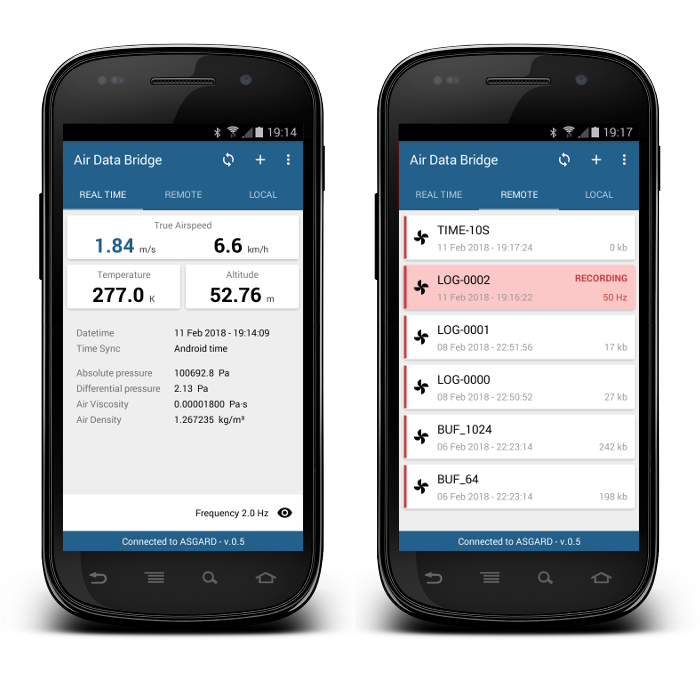
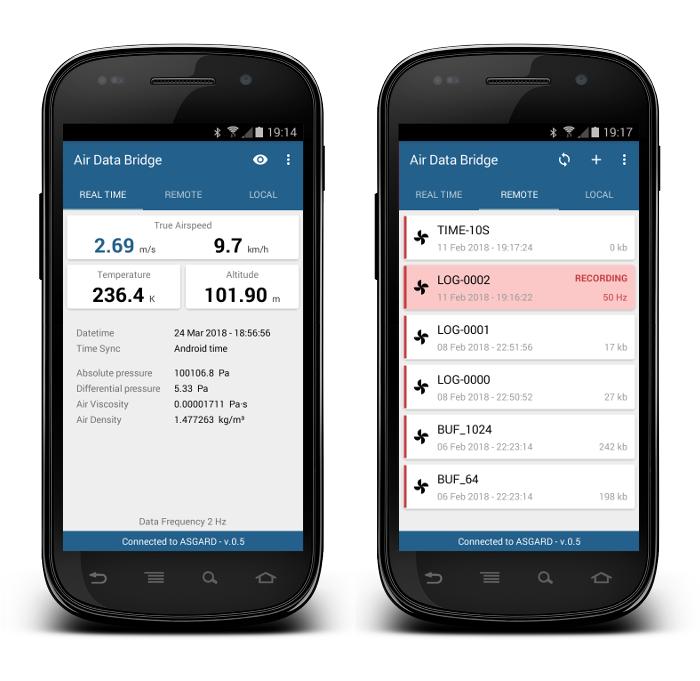
Move the Realtime Toggle command on the top Actionbar

diff --git a/app/src/main/java/eu/basicairdata/airdatabridge/AirDataBridgeActivity.java b/app/src/main/java/eu/basicairdata/airdatabridge/AirDataBridgeActivity.java
@@ -59,6 +59,8 @@ public class AirDataBridgeActivity extends AppCompatActivity {
     private TextView TVStatus;
     private MenuItem menuNew;
     private MenuItem menuSync;
+    private MenuItem menuEnableRT;
+    private MenuItem menuDisableRT;
 
     private boolean prefKeepScreenOn = true;
 
@@ -82,6 +84,11 @@ public class AirDataBridgeActivity extends AppCompatActivity {
             public void onPageSelected(int position) {
                 if (menuNew != null) menuNew.setVisible(position != 0);
                 if (menuSync != null) menuSync.setVisible(position != 0);
+                if (menuEnableRT != null)
+                    menuEnableRT.setVisible((position == 0) && !AirDataBridgeApplication.getInstance().isStatusViewEnabled());
+                if (menuDisableRT != null)
+                    menuDisableRT.setVisible((position == 0) && AirDataBridgeApplication.getInstance().isStatusViewEnabled());
+
             }
         });
 
@@ -153,6 +160,10 @@ public class AirDataBridgeActivity extends AppCompatActivity {
         menuNew.setVisible(mViewPager.getCurrentItem() != 0);
         menuSync = menu.findItem(R.id.action_sync);
         menuSync.setVisible(mViewPager.getCurrentItem() != 0);
+        menuEnableRT = menu.findItem(R.id.action_enable_realtime_view);
+        menuEnableRT.setVisible((mViewPager.getCurrentItem() == 0) && !AirDataBridgeApplication.getInstance().isStatusViewEnabled());
+        menuDisableRT = menu.findItem(R.id.action_disable_realtime_view);
+        menuDisableRT.setVisible((mViewPager.getCurrentItem() == 0) && AirDataBridgeApplication.getInstance().isStatusViewEnabled());
         return true;
     }
 
@@ -167,6 +178,16 @@ public class AirDataBridgeActivity extends AppCompatActivity {
         if (item.getItemId() == R.id.action_settings) {
             Intent intent = new Intent(this, SettingsActivity.class);
             startActivity(intent);
+            return true;
+        }
+
+        if (item.getItemId() == R.id.action_enable_realtime_view) {
+            EventBus.getDefault().post(EventBusMSG.REQUEST_ENABLE_REALTIME_VIEW);
+            return true;
+        }
+
+        if (item.getItemId() == R.id.action_disable_realtime_view) {
+            EventBus.getDefault().post(EventBusMSG.REQUEST_DISABLE_REALTIME_VIEW);
             return true;
         }
 
@@ -326,6 +347,18 @@ public class AirDataBridgeActivity extends AppCompatActivity {
                     @Override
                     public void run() {
                         Toast.makeText(AirDataBridgeActivity.this, getString(R.string.toast_file_already_exists), Toast.LENGTH_SHORT).show();
+                    }
+                });
+                break;
+            case EventBusMSG.DISABLE_REALTIME_VIEW:
+            case EventBusMSG.ENABLE_REALTIME_VIEW:
+                runOnUiThread(new Runnable() {
+                    @Override
+                    public void run() {
+                        if (menuEnableRT != null)
+                            menuEnableRT.setVisible((mViewPager.getCurrentItem() == 0) && !AirDataBridgeApplication.getInstance().isStatusViewEnabled());
+                        if (menuDisableRT != null)
+                            menuDisableRT.setVisible((mViewPager.getCurrentItem() == 0) && AirDataBridgeApplication.getInstance().isStatusViewEnabled());
                     }
                 });
                 break;

diff --git a/app/src/main/java/eu/basicairdata/airdatabridge/FragmentRealtime.java b/app/src/main/java/eu/basicairdata/airdatabridge/FragmentRealtime.java
@@ -19,14 +19,11 @@
 
 package eu.basicairdata.airdatabridge;
 
-import android.graphics.Bitmap;
-import android.graphics.BitmapFactory;
 import android.os.Bundle;
 import android.support.v4.app.Fragment;
 import android.view.LayoutInflater;
 import android.view.View;
 import android.view.ViewGroup;
-import android.widget.ImageView;
 import android.widget.TextView;
 
 import org.greenrobot.eventbus.EventBus;
@@ -51,13 +48,6 @@ public class FragmentRealtime extends Fragment {
     private TextView TVAirViscosity;
     private TextView TVUpdates;
     private TextView TVRealtimeDisabled;
-
-    private ImageView IMGViewStatus;
-
-    private final Bitmap[] bmpVisibility = {
-            BitmapFactory.decodeResource(AirDataBridgeApplication.getInstance().getResources(), R.drawable.ic_visibility_off_black_24dp),
-            BitmapFactory.decodeResource(AirDataBridgeApplication.getInstance().getResources(), R.drawable.ic_visibility_black_24dp)
-    };
 
     final AirDataBridgeApplication ADBApplication = AirDataBridgeApplication.getInstance();
 
@@ -109,23 +99,6 @@ public class FragmentRealtime extends Fragment {
         TVAirViscosity = (TextView) view.findViewById(R.id.id_textView_dynamic_air_viscosity);
 
         TVUpdates = (TextView) view.findViewById(R.id.id_textView_status_hz);
-
-        IMGViewStatus = (ImageView) view.findViewById(R.id.id_imageview_status);
-
-        IMGViewStatus.setOnClickListener(new View.OnClickListener() {
-
-            @Override
-            public void onClick(View v) {               // Toggle Real Time Data visibility
-                if (isAdded()) {
-                    ADBApplication.setStatusViewEnabled(!ADBApplication.isStatusViewEnabled());
-                    if (ADBApplication.isStatusViewEnabled()) {
-                        EventBus.getDefault().post(EventBusMSG.REQUEST_ENABLE_REALTIME_VIEW);
-                    } else {
-                        EventBus.getDefault().post(EventBusMSG.REQUEST_DISABLE_REALTIME_VIEW);
-                    }
-                }
-            }
-        });
 
         return view;
     }
@@ -185,12 +158,8 @@ public class FragmentRealtime extends Fragment {
                         TVUpdates.setText(getResources().getString(R.string.realtime_update_at_hz, String.valueOf((long)BTFreq)));
                     else
                         TVUpdates.setText(getResources().getString(R.string.realtime_update_at_hz, String.valueOf(BTFreq)));
-                    IMGViewStatus.setImageBitmap(bmpVisibility[1]);
-                    IMGViewStatus.setAlpha(255);
                 } else {
                     TVUpdates.setText(R.string.realtime_disabled);
-                    IMGViewStatus.setImageBitmap(bmpVisibility[0]);
-                    IMGViewStatus.setAlpha(128);
                 }
                 TVRealtimeDisabled.setVisibility(View.INVISIBLE);
 
